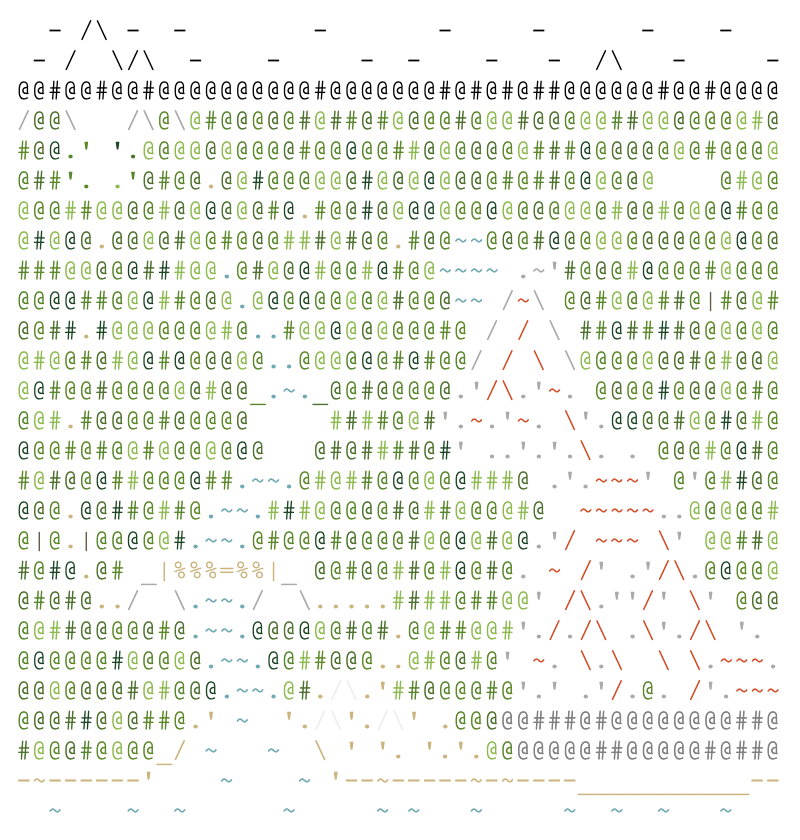
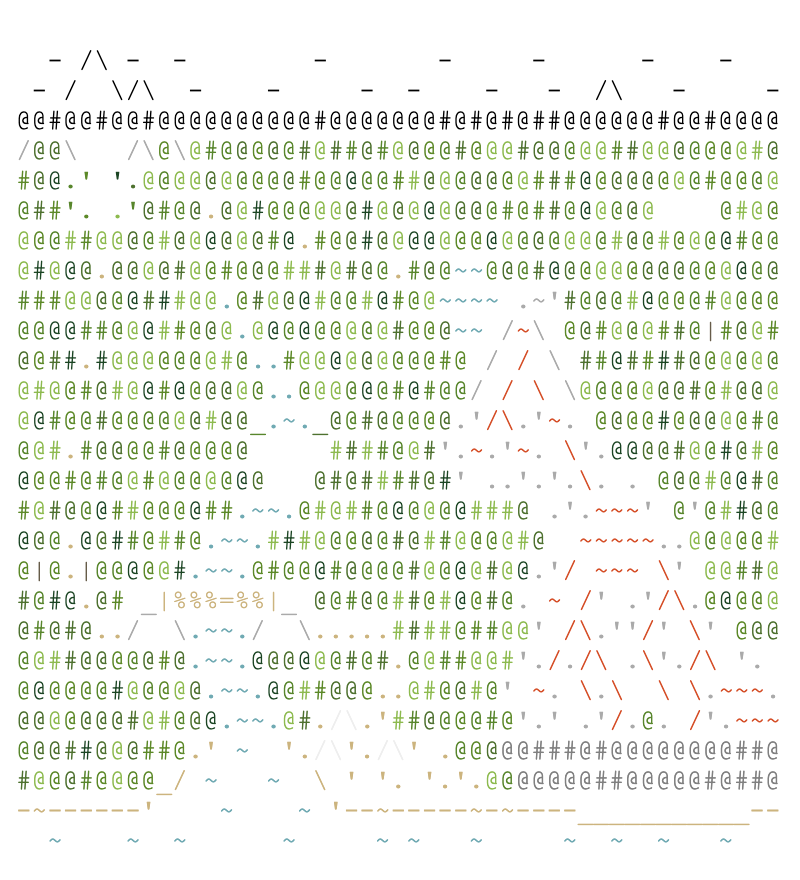
try with shifts

diff --git a/utils/yearly_readme.py b/utils/yearly_readme.py
@@ -96,13 +96,14 @@ def build_year(year, src=None):
     # filtered = filtered.replace("</a>", "")
     styles = (styles or "") + "a:link {text-decoration: none; color: grey;}"
     hti = Html2Image()
+    height = 440
     if year == 2015:
-        height = 430
+        height += 10
     elif year == 2016:
-        height = 520
-    else:
-        height = 420
-    path = hti.screenshot(html_str=days, css_str=styles, save_as=f"{year}.png", size=(400, height))
+        height += 100
+    s = len('<pre class="calender">')
+    html_str = days[:s] + "&nbsp;\n" + days[s:]
+    path = hti.screenshot(html_str=html_str, css_str=styles, save_as=f"{year}.png", size=(400, height))
     shutil.copyfile(path[0], f"../resources/{year}/progress.png")
 
     captions = get_day_captions(year)
@@ -113,7 +114,7 @@ def build_year(year, src=None):
     for day, value in parser.days.items():
         v = ""
         lines = value["data"].split("\n")
-        for _ in range(len(lines) - 3):
+        for _ in range(len(lines) - 2):
             v += "&nbsp;\n"
         if day in captions:
             v += captions[day]
@@ -126,4 +127,4 @@ def build_year(year, src=None):
 
 
 if __name__ == "__main__":
-    build_year(2016)
+    build_year(2022)

diff --git a/resources/2022/README.md b/resources/2022/README.md
@@ -3,6 +3,7 @@
 <pre>
 &nbsp;
 &nbsp;
+&nbsp;
 <a href='day/24'>Day 24: Blizzard Basin</a>
 <a href='day/23'>Day 23: Unstable Diffusion</a>
 <a href='day/22'>Day 22: Monkey Map</a>
